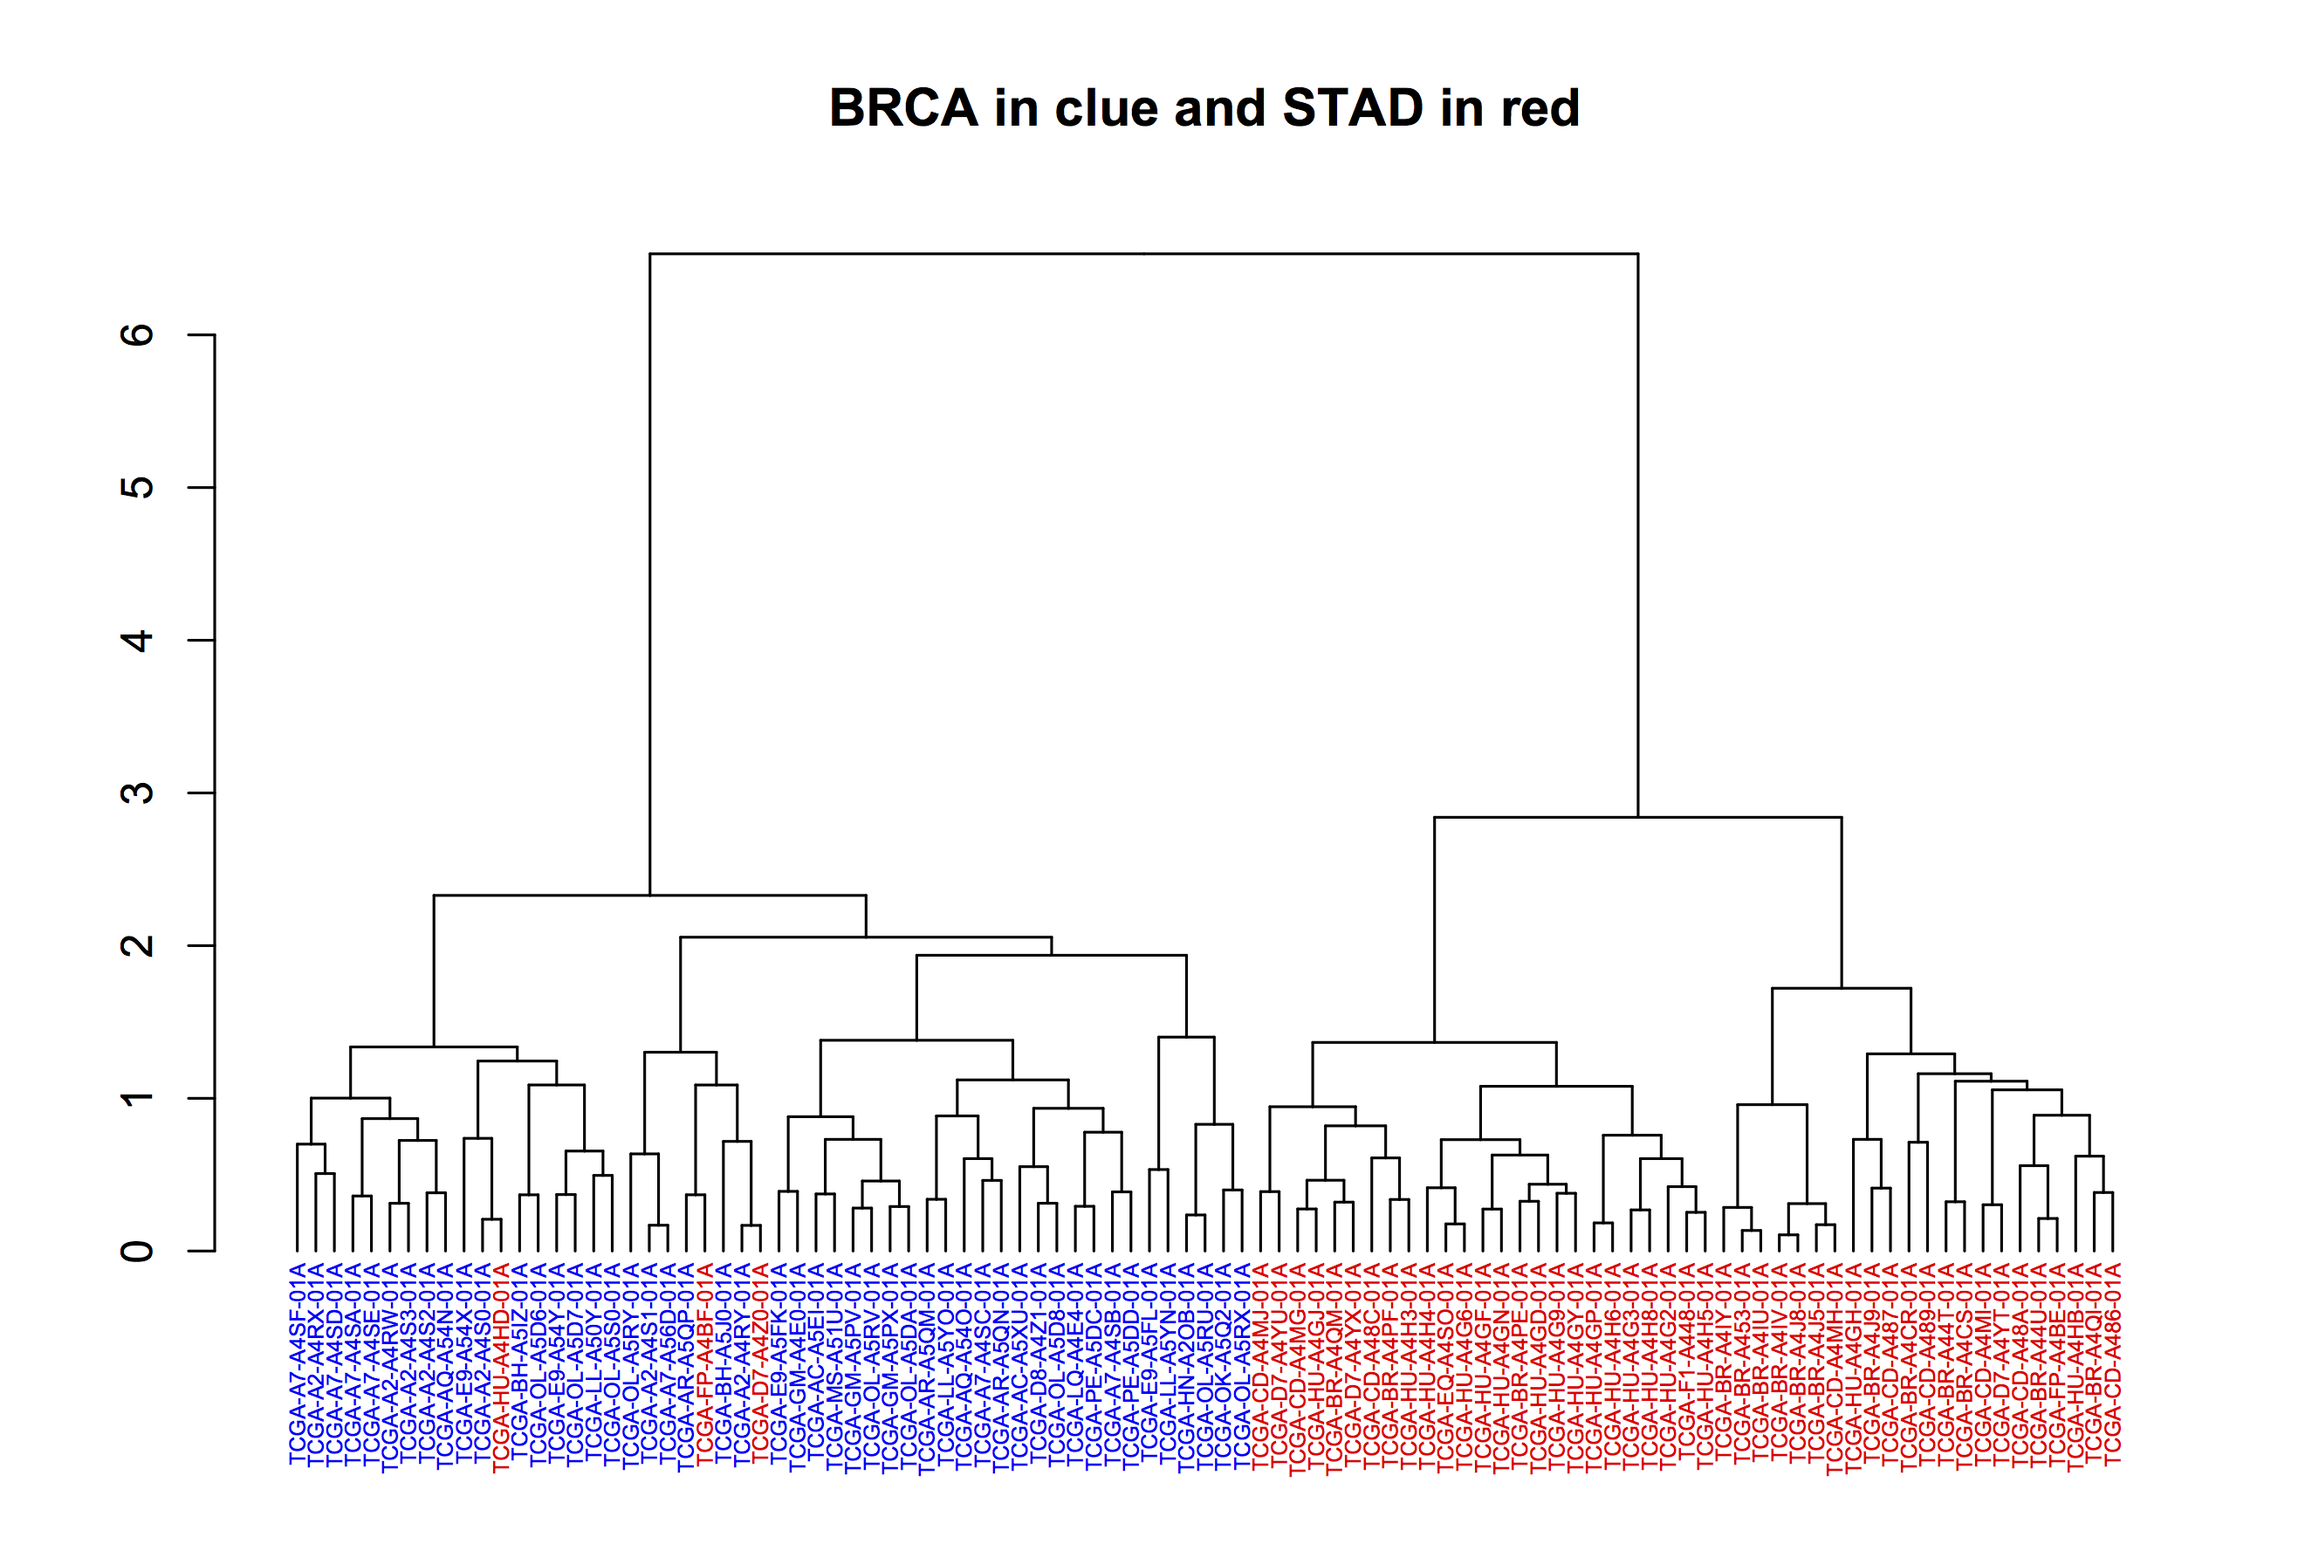
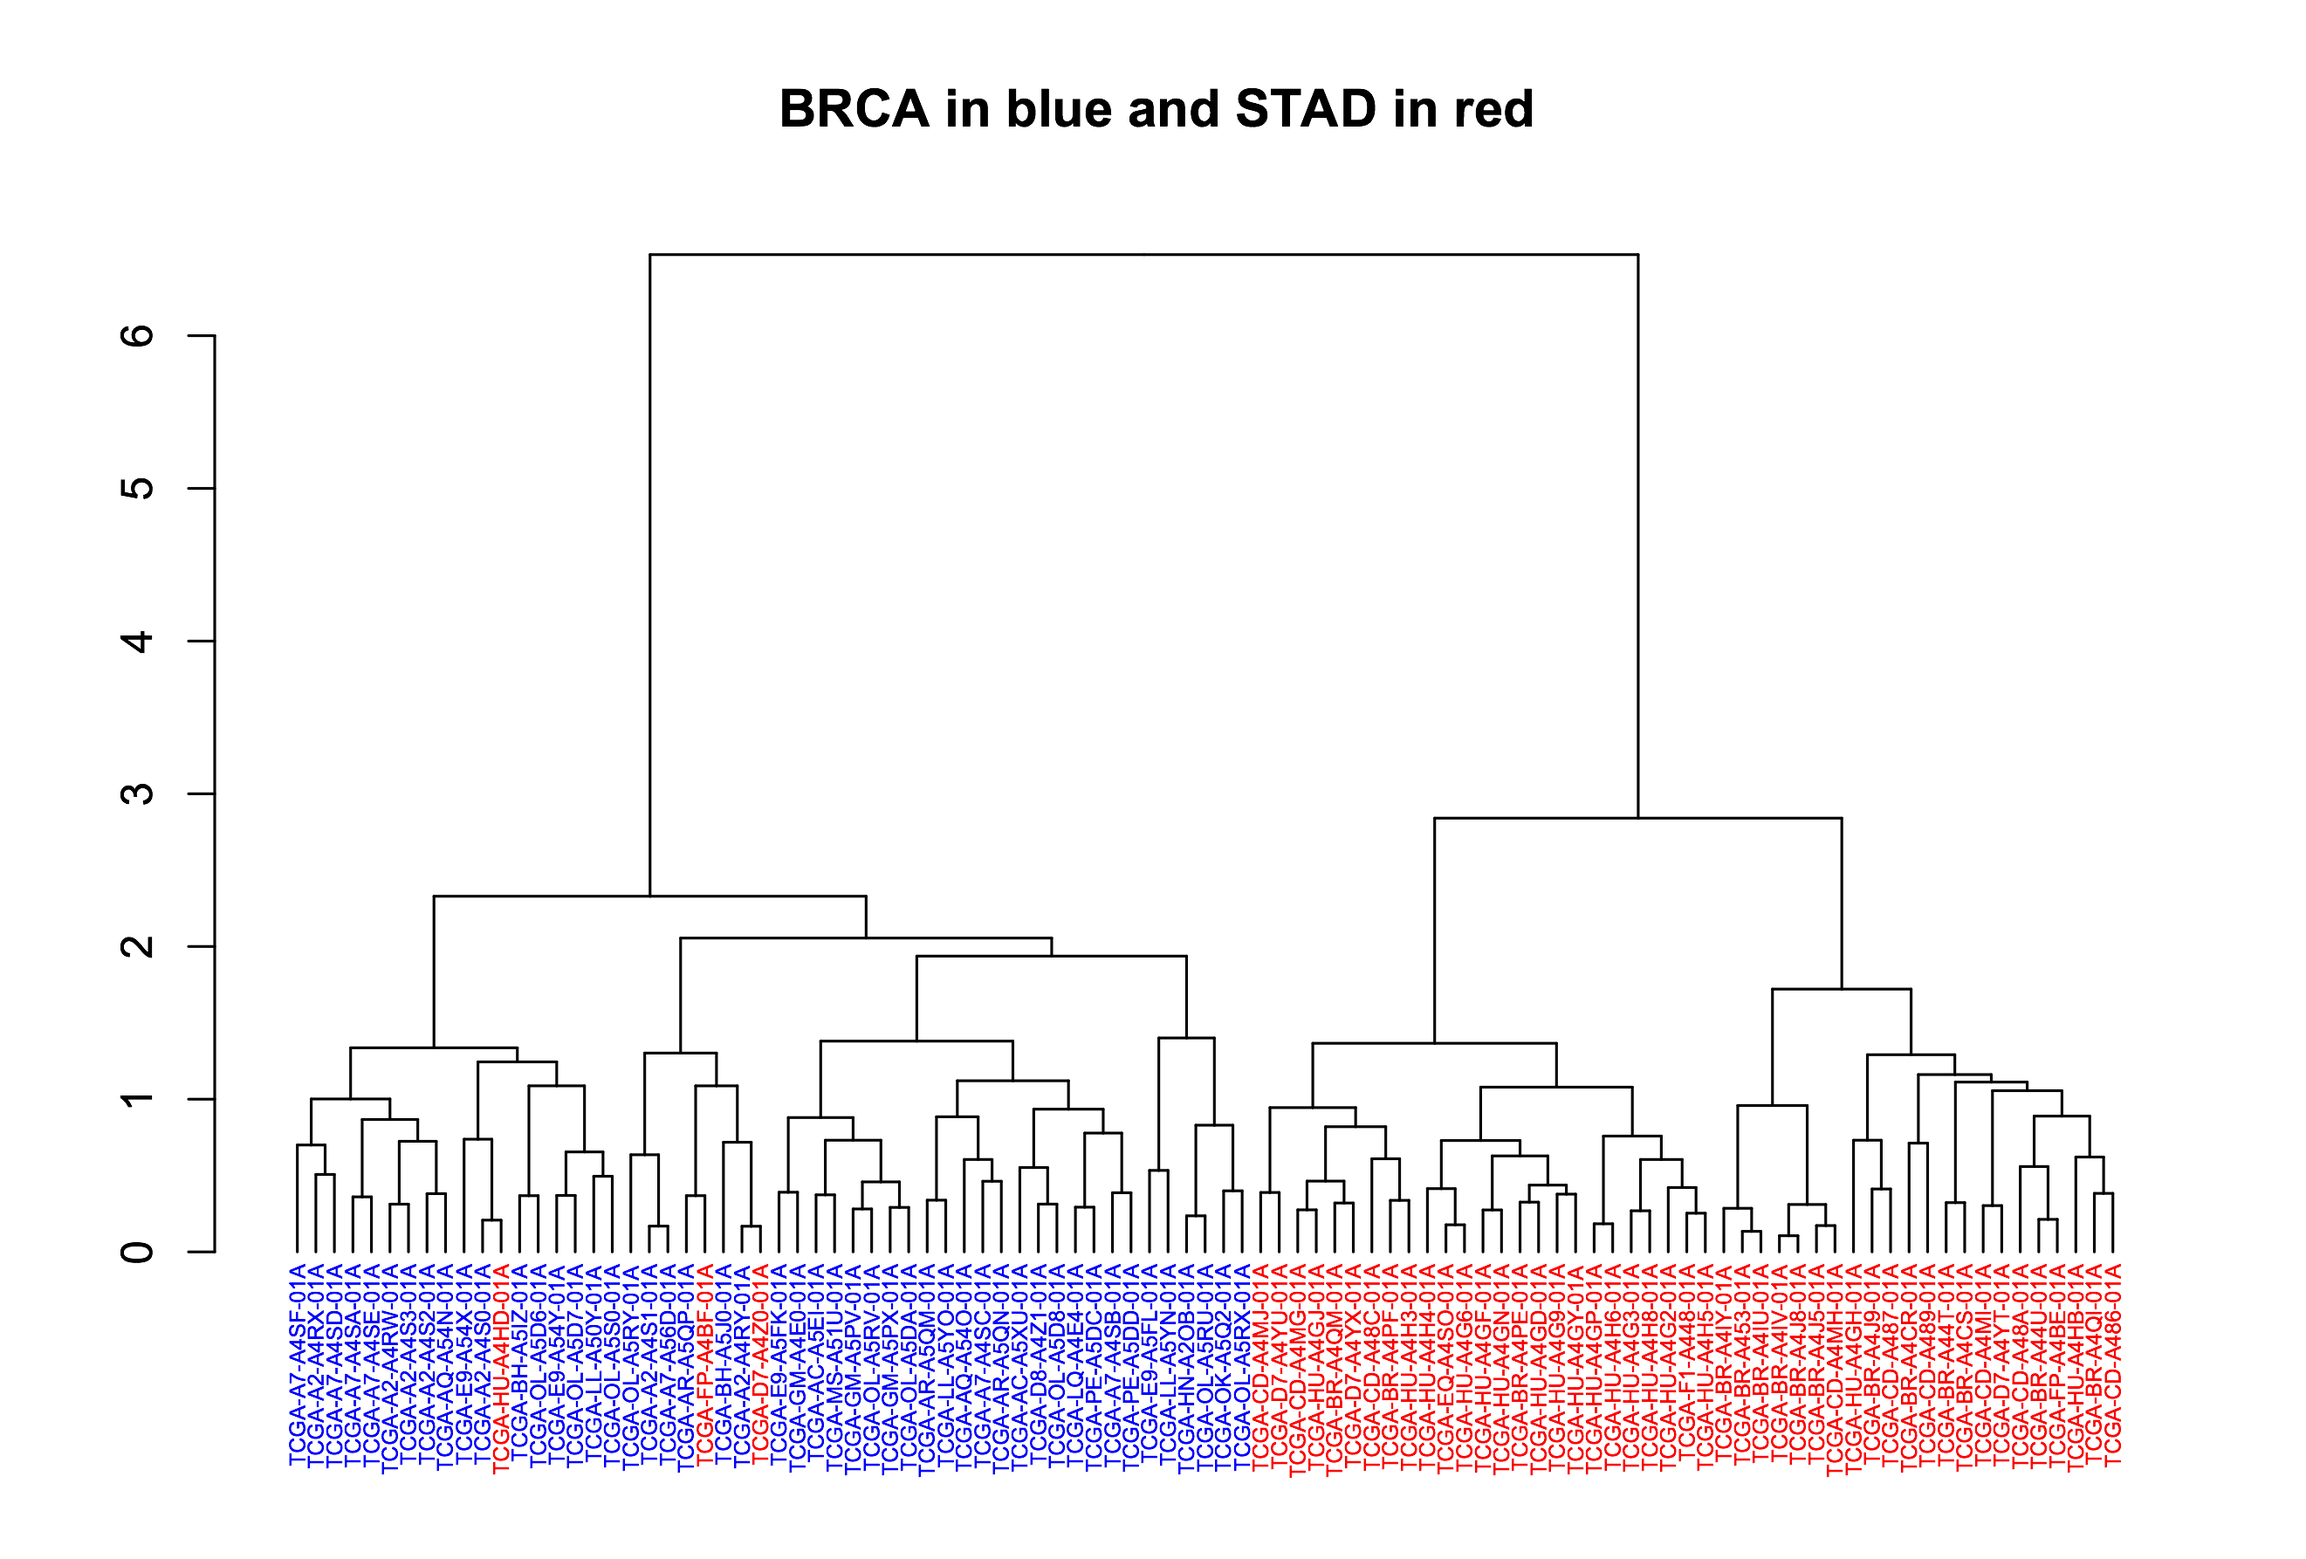
march qotm 1656

Changed region(s): [[0.1242, 0.7395, 0.9315, 0.9552], [0.3415, 0.0308, 0.6831, 0.0924], [0.8383, 0.6779, 0.8694, 0.7087]]

diff --git a/docs/source/sections/QueryOfTheMonthClub_Dev.rst b/docs/source/sections/QueryOfTheMonthClub_Dev.rst
@@ -198,6 +198,8 @@ Now, let's see that distance matrix in R!
   dend <- as.dendrogram(hc)
   labels_colors(dend) <- studyMat[labels(dend), "color"]
   dend <- set(dend, "labels_cex", 0.5)
+
+  ## Fig1 ##
   plot(dend, main="BRCA in clue and STAD in red")
 
   # If we want to make two groups, then we cut the dendrogram
@@ -213,11 +215,15 @@ Now, let's see that distance matrix in R!
 
   # And we can plot cluster assignments on a heatmap
   # to see how hclust-default and pheatmap-defaults compare.
+
+  ## Fig2 ##
   pheatmap(mat2, fontsize=6, annotation=annotMat[,-1])
 
   # Or we can use the dendsort library (from pheatmap examples)
   library(dendsort)
   callback = function(hc, ...){dendsort(hc)}
+
+  ## Fig3 ##
   pheatmap(mat2, fontsize=6, annotation=annotMat[,-1], clustering_callback = callback)
 
   # Modify ordering of the clusters using clustering callback option
@@ -226,6 +232,7 @@ Now, let's see that distance matrix in R!
       dend = reorder(as.dendrogram(hc), wts = sv)
       as.hclust(dend)
   }
+  ## Fig4 ##
   pheatmap(mat2, clustering_callback = callback, annotation=annotMat[,-1],
       fontsize_row=4, fontsize_col=4, border_color=NA)
 
@@ -235,7 +242,7 @@ Now, let's see that distance matrix in R!
    :scale: 25
    :align: center
 
-   Dendrogram showing the sample-wise relationships based on miRNA expression.
+   Fig1. Dendrogram showing the sample-wise relationships based on miRNA expression.
 
 -------------
 
